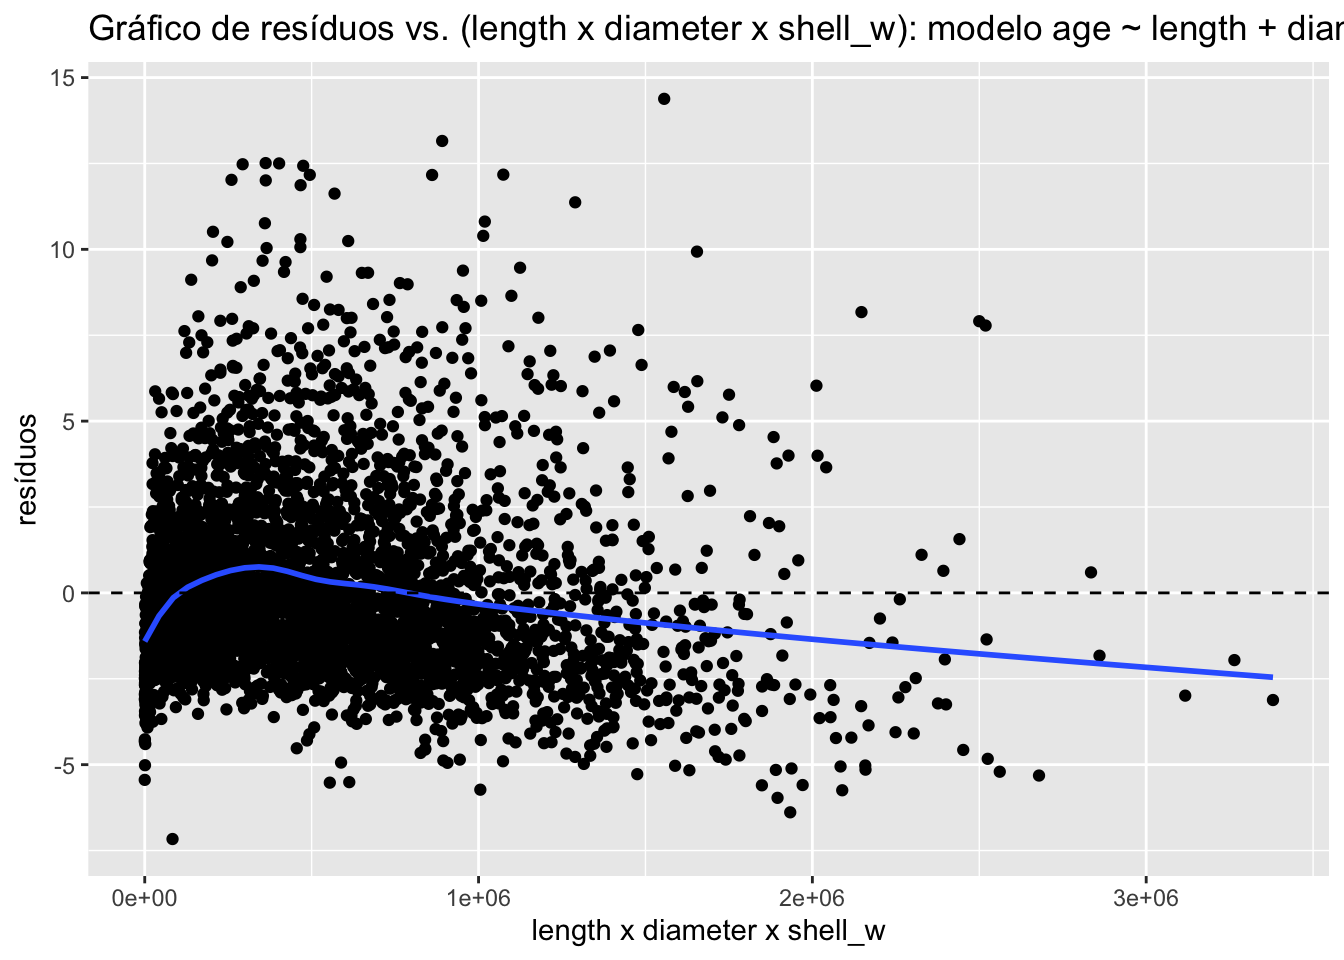
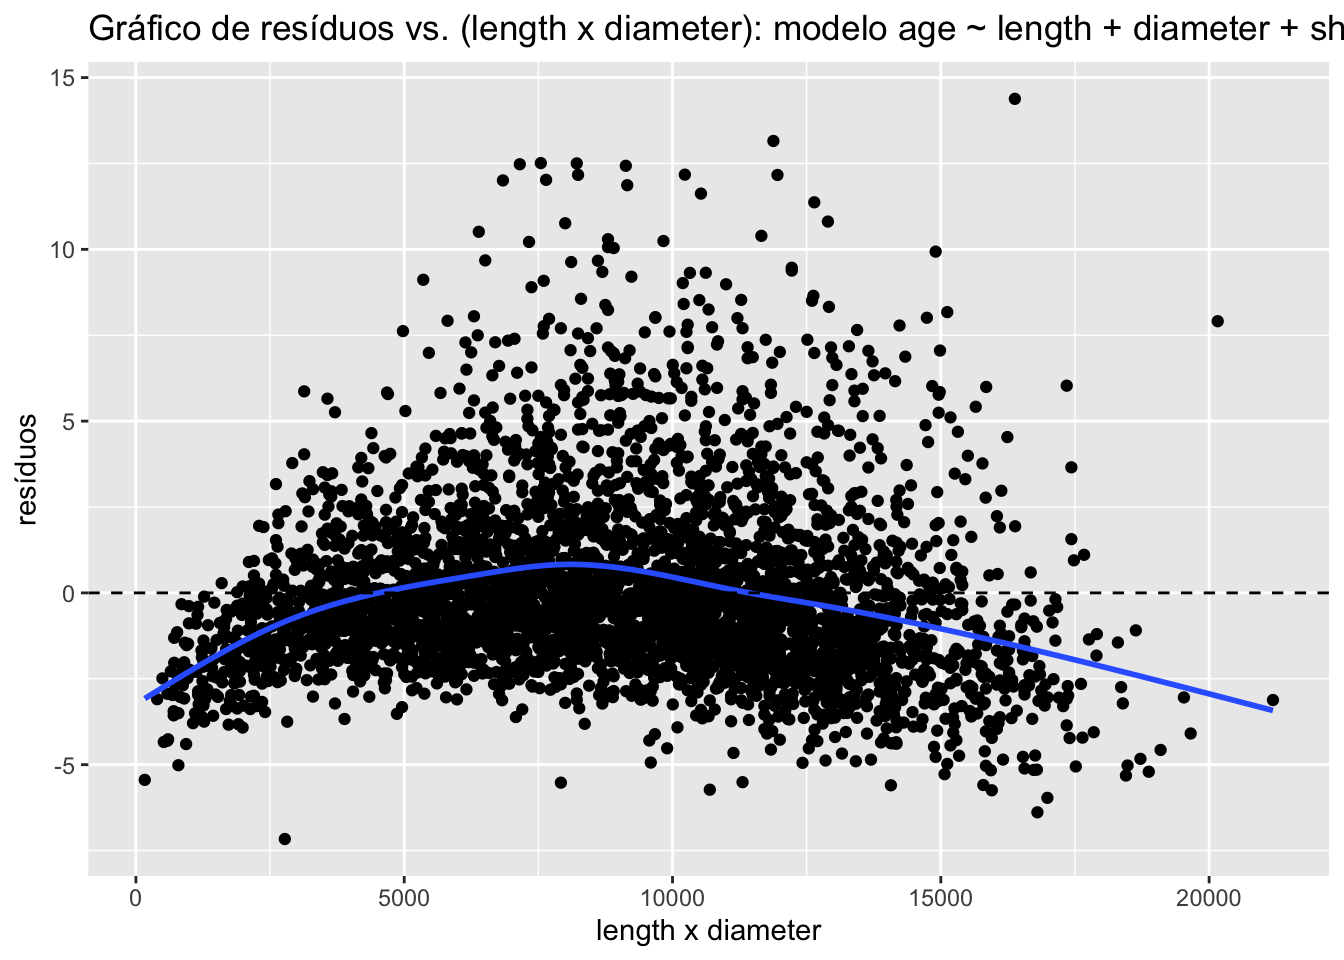
Fourth practice changes, once again

diff --git a/GED16_AULA04_Pratica/GED16_AULA04_Pratica.html b/GED16_AULA04_Pratica/GED16_AULA04_Pratica.html
@@ -2579,13 +2579,27 @@ F-statistic: 886.4 on 3 and 4171 DF,  p-value: &lt; 2.2e-16</code></pre>
 <span id="cb202-19"><a href="#cb202-19" aria-hidden="true" tabindex="-1"></a>  <span class="fu">geom_hline</span>(<span class="at">yintercept =</span> <span class="dv">0</span>, <span class="at">linetype =</span> <span class="st">"dashed"</span>) <span class="sc">+</span></span>
 <span id="cb202-20"><a href="#cb202-20" aria-hidden="true" tabindex="-1"></a>  <span class="fu">ggtitle</span>(<span class="st">"Gráfico de resíduos vs. shell_w: modelo age ~ length + diameter + shell_w"</span>) <span class="sc">+</span></span>
 <span id="cb202-21"><a href="#cb202-21" aria-hidden="true" tabindex="-1"></a>  <span class="fu">labs</span>(<span class="at">y =</span> <span class="st">"resíduos"</span>, <span class="at">x =</span> <span class="st">"variável explicativa (shell_w)"</span>)</span>
-<span id="cb202-22"><a href="#cb202-22" aria-hidden="true" tabindex="-1"></a><span class="co"># Grafico: resid x POP*RPC</span></span>
-<span id="cb202-23"><a href="#cb202-23" aria-hidden="true" tabindex="-1"></a><span class="fu">ggplot</span>(rlm_partone_data, <span class="fu">aes</span>(<span class="at">x =</span> length<span class="sc">*</span>diameter<span class="sc">*</span>shell_w, <span class="at">y =</span> resid)) <span class="sc">+</span></span>
+<span id="cb202-22"><a href="#cb202-22" aria-hidden="true" tabindex="-1"></a><span class="co"># Grafico: resid x length * diameter</span></span>
+<span id="cb202-23"><a href="#cb202-23" aria-hidden="true" tabindex="-1"></a><span class="fu">ggplot</span>(rlm_partone_data, <span class="fu">aes</span>(<span class="at">x =</span> length<span class="sc">*</span>diameter, <span class="at">y =</span> resid)) <span class="sc">+</span></span>
 <span id="cb202-24"><a href="#cb202-24" aria-hidden="true" tabindex="-1"></a>  <span class="fu">geom_point</span>() <span class="sc">+</span></span>
 <span id="cb202-25"><a href="#cb202-25" aria-hidden="true" tabindex="-1"></a>  <span class="fu">geom_smooth</span>(<span class="at">se=</span><span class="cn">FALSE</span>) <span class="sc">+</span></span>
 <span id="cb202-26"><a href="#cb202-26" aria-hidden="true" tabindex="-1"></a>  <span class="fu">geom_hline</span>(<span class="at">yintercept =</span> <span class="dv">0</span>, <span class="at">linetype =</span> <span class="st">"dashed"</span>) <span class="sc">+</span></span>
-<span id="cb202-27"><a href="#cb202-27" aria-hidden="true" tabindex="-1"></a>  <span class="fu">ggtitle</span>(<span class="st">"Gráfico de resíduos vs. (length x diameter x shell_w): modelo age ~ length + diameter + shell_w"</span>) <span class="sc">+</span></span>
-<span id="cb202-28"><a href="#cb202-28" aria-hidden="true" tabindex="-1"></a>  <span class="fu">labs</span>(<span class="at">y =</span> <span class="st">"resíduos"</span>, <span class="at">x =</span> <span class="st">"length x diameter x shell_w"</span>)</span></code><button title="Copiar para a área de transferência" class="code-copy-button"><i class="bi"></i></button></pre></div>
+<span id="cb202-27"><a href="#cb202-27" aria-hidden="true" tabindex="-1"></a>  <span class="fu">ggtitle</span>(<span class="st">"Gráfico de resíduos vs. (length x diameter): modelo age ~ length + diameter + shell_w"</span>) <span class="sc">+</span></span>
+<span id="cb202-28"><a href="#cb202-28" aria-hidden="true" tabindex="-1"></a>  <span class="fu">labs</span>(<span class="at">y =</span> <span class="st">"resíduos"</span>, <span class="at">x =</span> <span class="st">"length x diameter"</span>)</span>
+<span id="cb202-29"><a href="#cb202-29" aria-hidden="true" tabindex="-1"></a><span class="co"># Grafico: resid x length * shell_w</span></span>
+<span id="cb202-30"><a href="#cb202-30" aria-hidden="true" tabindex="-1"></a><span class="fu">ggplot</span>(rlm_partone_data, <span class="fu">aes</span>(<span class="at">x =</span> length<span class="sc">*</span>shell_w, <span class="at">y =</span> resid)) <span class="sc">+</span></span>
+<span id="cb202-31"><a href="#cb202-31" aria-hidden="true" tabindex="-1"></a>  <span class="fu">geom_point</span>() <span class="sc">+</span></span>
+<span id="cb202-32"><a href="#cb202-32" aria-hidden="true" tabindex="-1"></a>  <span class="fu">geom_smooth</span>(<span class="at">se=</span><span class="cn">FALSE</span>) <span class="sc">+</span></span>
+<span id="cb202-33"><a href="#cb202-33" aria-hidden="true" tabindex="-1"></a>  <span class="fu">geom_hline</span>(<span class="at">yintercept =</span> <span class="dv">0</span>, <span class="at">linetype =</span> <span class="st">"dashed"</span>) <span class="sc">+</span></span>
+<span id="cb202-34"><a href="#cb202-34" aria-hidden="true" tabindex="-1"></a>  <span class="fu">ggtitle</span>(<span class="st">"Gráfico de resíduos vs. (length x shell_w): modelo age ~ length + diameter + shell_w"</span>) <span class="sc">+</span></span>
+<span id="cb202-35"><a href="#cb202-35" aria-hidden="true" tabindex="-1"></a>  <span class="fu">labs</span>(<span class="at">y =</span> <span class="st">"resíduos"</span>, <span class="at">x =</span> <span class="st">"length x shell_w"</span>)</span>
+<span id="cb202-36"><a href="#cb202-36" aria-hidden="true" tabindex="-1"></a><span class="co"># Grafico: resid x diameter * shell_w</span></span>
+<span id="cb202-37"><a href="#cb202-37" aria-hidden="true" tabindex="-1"></a><span class="fu">ggplot</span>(rlm_partone_data, <span class="fu">aes</span>(<span class="at">x =</span> diameter<span class="sc">*</span>shell_w, <span class="at">y =</span> resid)) <span class="sc">+</span></span>
+<span id="cb202-38"><a href="#cb202-38" aria-hidden="true" tabindex="-1"></a>  <span class="fu">geom_point</span>() <span class="sc">+</span></span>
+<span id="cb202-39"><a href="#cb202-39" aria-hidden="true" tabindex="-1"></a>  <span class="fu">geom_smooth</span>(<span class="at">se=</span><span class="cn">FALSE</span>) <span class="sc">+</span></span>
+<span id="cb202-40"><a href="#cb202-40" aria-hidden="true" tabindex="-1"></a>  <span class="fu">geom_hline</span>(<span class="at">yintercept =</span> <span class="dv">0</span>, <span class="at">linetype =</span> <span class="st">"dashed"</span>) <span class="sc">+</span></span>
+<span id="cb202-41"><a href="#cb202-41" aria-hidden="true" tabindex="-1"></a>  <span class="fu">ggtitle</span>(<span class="st">"Gráfico de resíduos vs. (diameter x shell_w): modelo age ~ length + diameter + shell_w"</span>) <span class="sc">+</span></span>
+<span id="cb202-42"><a href="#cb202-42" aria-hidden="true" tabindex="-1"></a>  <span class="fu">labs</span>(<span class="at">y =</span> <span class="st">"resíduos"</span>, <span class="at">x =</span> <span class="st">"diameter x shell_w"</span>)</span></code><button title="Copiar para a área de transferência" class="code-copy-button"><i class="bi"></i></button></pre></div>
 <div class="cell quarto-layout-panel">
 <div class="quarto-layout-row quarto-layout-valign-top">
 <div class="cell-output-display quarto-layout-cell" style="flex-basis: 50.0%;justify-content: center;">
@@ -2601,6 +2615,14 @@ F-statistic: 886.4 on 3 and 4171 DF,  p-value: &lt; 2.2e-16</code></pre>
 </div>
 <div class="cell-output-display quarto-layout-cell" style="flex-basis: 50.0%;justify-content: center;">
 <p><img src="GED16_AULA04_Pratica_files/figure-html/unnamed-chunk-122-4.png" class="img-fluid" width="672"></p>
+</div>
+</div>
+<div class="quarto-layout-row quarto-layout-valign-top">
+<div class="cell-output-display quarto-layout-cell" style="flex-basis: 50.0%;justify-content: center;">
+<p><img src="GED16_AULA04_Pratica_files/figure-html/unnamed-chunk-122-5.png" class="img-fluid" width="672"></p>
+</div>
+<div class="cell-output-display quarto-layout-cell" style="flex-basis: 50.0%;justify-content: center;">
+<p><img src="GED16_AULA04_Pratica_files/figure-html/unnamed-chunk-122-6.png" class="img-fluid" width="672"></p>
 </div>
 </div>
 </div>
@@ -2631,13 +2653,27 @@ F-statistic: 886.4 on 3 and 4171 DF,  p-value: &lt; 2.2e-16</code></pre>
 <span id="cb203-19"><a href="#cb203-19" aria-hidden="true" tabindex="-1"></a>  <span class="fu">geom_hline</span>(<span class="at">yintercept =</span> <span class="dv">0</span>, <span class="at">linetype =</span> <span class="st">"dashed"</span>) <span class="sc">+</span></span>
 <span id="cb203-20"><a href="#cb203-20" aria-hidden="true" tabindex="-1"></a>  <span class="fu">ggtitle</span>(<span class="st">"Gráfico de resíduos vs. shell_w: modelo age ~ height + diameter + shell_w"</span>) <span class="sc">+</span></span>
 <span id="cb203-21"><a href="#cb203-21" aria-hidden="true" tabindex="-1"></a>  <span class="fu">labs</span>(<span class="at">y =</span> <span class="st">"resíduos"</span>, <span class="at">x =</span> <span class="st">"variável explicativa (shell_w)"</span>)</span>
-<span id="cb203-22"><a href="#cb203-22" aria-hidden="true" tabindex="-1"></a><span class="co"># Grafico: resid x height*diameter*shell_w</span></span>
-<span id="cb203-23"><a href="#cb203-23" aria-hidden="true" tabindex="-1"></a><span class="fu">ggplot</span>(rlm_parttwo_data, <span class="fu">aes</span>(<span class="at">x =</span> height<span class="sc">*</span>diameter<span class="sc">*</span>shell_w, <span class="at">y =</span> resid)) <span class="sc">+</span></span>
+<span id="cb203-22"><a href="#cb203-22" aria-hidden="true" tabindex="-1"></a><span class="co"># Grafico: resid x height * diameter</span></span>
+<span id="cb203-23"><a href="#cb203-23" aria-hidden="true" tabindex="-1"></a><span class="fu">ggplot</span>(rlm_partone_data, <span class="fu">aes</span>(<span class="at">x =</span> height<span class="sc">*</span>diameter, <span class="at">y =</span> resid)) <span class="sc">+</span></span>
 <span id="cb203-24"><a href="#cb203-24" aria-hidden="true" tabindex="-1"></a>  <span class="fu">geom_point</span>() <span class="sc">+</span></span>
 <span id="cb203-25"><a href="#cb203-25" aria-hidden="true" tabindex="-1"></a>  <span class="fu">geom_smooth</span>(<span class="at">se=</span><span class="cn">FALSE</span>) <span class="sc">+</span></span>
 <span id="cb203-26"><a href="#cb203-26" aria-hidden="true" tabindex="-1"></a>  <span class="fu">geom_hline</span>(<span class="at">yintercept =</span> <span class="dv">0</span>, <span class="at">linetype =</span> <span class="st">"dashed"</span>) <span class="sc">+</span></span>
-<span id="cb203-27"><a href="#cb203-27" aria-hidden="true" tabindex="-1"></a>  <span class="fu">ggtitle</span>(<span class="st">"Gráfico de resíduos vs. (height x diameter x shell_w): modelo age ~ height + diameter + shell_w"</span>) <span class="sc">+</span></span>
-<span id="cb203-28"><a href="#cb203-28" aria-hidden="true" tabindex="-1"></a>  <span class="fu">labs</span>(<span class="at">y =</span> <span class="st">"resíduos"</span>, <span class="at">x =</span> <span class="st">"height x diameter x shell_w"</span>)</span></code><button title="Copiar para a área de transferência" class="code-copy-button"><i class="bi"></i></button></pre></div>
+<span id="cb203-27"><a href="#cb203-27" aria-hidden="true" tabindex="-1"></a>  <span class="fu">ggtitle</span>(<span class="st">"Gráfico de resíduos vs. (height x diameter): modelo age ~ height + diameter + shell_w"</span>) <span class="sc">+</span></span>
+<span id="cb203-28"><a href="#cb203-28" aria-hidden="true" tabindex="-1"></a>  <span class="fu">labs</span>(<span class="at">y =</span> <span class="st">"resíduos"</span>, <span class="at">x =</span> <span class="st">"height x diameter"</span>)</span>
+<span id="cb203-29"><a href="#cb203-29" aria-hidden="true" tabindex="-1"></a><span class="co"># Grafico: resid x height * shell_w</span></span>
+<span id="cb203-30"><a href="#cb203-30" aria-hidden="true" tabindex="-1"></a><span class="fu">ggplot</span>(rlm_partone_data, <span class="fu">aes</span>(<span class="at">x =</span> height<span class="sc">*</span>shell_w, <span class="at">y =</span> resid)) <span class="sc">+</span></span>
+<span id="cb203-31"><a href="#cb203-31" aria-hidden="true" tabindex="-1"></a>  <span class="fu">geom_point</span>() <span class="sc">+</span></span>
+<span id="cb203-32"><a href="#cb203-32" aria-hidden="true" tabindex="-1"></a>  <span class="fu">geom_smooth</span>(<span class="at">se=</span><span class="cn">FALSE</span>) <span class="sc">+</span></span>
+<span id="cb203-33"><a href="#cb203-33" aria-hidden="true" tabindex="-1"></a>  <span class="fu">geom_hline</span>(<span class="at">yintercept =</span> <span class="dv">0</span>, <span class="at">linetype =</span> <span class="st">"dashed"</span>) <span class="sc">+</span></span>
+<span id="cb203-34"><a href="#cb203-34" aria-hidden="true" tabindex="-1"></a>  <span class="fu">ggtitle</span>(<span class="st">"Gráfico de resíduos vs. (height x shell_w): modelo age ~ height + diameter + shell_w"</span>) <span class="sc">+</span></span>
+<span id="cb203-35"><a href="#cb203-35" aria-hidden="true" tabindex="-1"></a>  <span class="fu">labs</span>(<span class="at">y =</span> <span class="st">"resíduos"</span>, <span class="at">x =</span> <span class="st">"height x shell_w"</span>)</span>
+<span id="cb203-36"><a href="#cb203-36" aria-hidden="true" tabindex="-1"></a><span class="co"># Grafico: resid x diameter * shell_w</span></span>
+<span id="cb203-37"><a href="#cb203-37" aria-hidden="true" tabindex="-1"></a><span class="fu">ggplot</span>(rlm_partone_data, <span class="fu">aes</span>(<span class="at">x =</span> diameter<span class="sc">*</span>shell_w, <span class="at">y =</span> resid)) <span class="sc">+</span></span>
+<span id="cb203-38"><a href="#cb203-38" aria-hidden="true" tabindex="-1"></a>  <span class="fu">geom_point</span>() <span class="sc">+</span></span>
+<span id="cb203-39"><a href="#cb203-39" aria-hidden="true" tabindex="-1"></a>  <span class="fu">geom_smooth</span>(<span class="at">se=</span><span class="cn">FALSE</span>) <span class="sc">+</span></span>
+<span id="cb203-40"><a href="#cb203-40" aria-hidden="true" tabindex="-1"></a>  <span class="fu">geom_hline</span>(<span class="at">yintercept =</span> <span class="dv">0</span>, <span class="at">linetype =</span> <span class="st">"dashed"</span>) <span class="sc">+</span></span>
+<span id="cb203-41"><a href="#cb203-41" aria-hidden="true" tabindex="-1"></a>  <span class="fu">ggtitle</span>(<span class="st">"Gráfico de resíduos vs. (diameter x shell_w): modelo age ~ length + diameter + shell_w"</span>) <span class="sc">+</span></span>
+<span id="cb203-42"><a href="#cb203-42" aria-hidden="true" tabindex="-1"></a>  <span class="fu">labs</span>(<span class="at">y =</span> <span class="st">"resíduos"</span>, <span class="at">x =</span> <span class="st">"diameter x shell_w"</span>)</span></code><button title="Copiar para a área de transferência" class="code-copy-button"><i class="bi"></i></button></pre></div>
 <div class="cell quarto-layout-panel">
 <div class="quarto-layout-row quarto-layout-valign-top">
 <div class="cell-output-display quarto-layout-cell" style="flex-basis: 50.0%;justify-content: center;">
@@ -2655,9 +2691,17 @@ F-statistic: 886.4 on 3 and 4171 DF,  p-value: &lt; 2.2e-16</code></pre>
 <p><img src="GED16_AULA04_Pratica_files/figure-html/unnamed-chunk-123-4.png" class="img-fluid" width="672"></p>
 </div>
 </div>
+<div class="quarto-layout-row quarto-layout-valign-top">
+<div class="cell-output-display quarto-layout-cell" style="flex-basis: 50.0%;justify-content: center;">
+<p><img src="GED16_AULA04_Pratica_files/figure-html/unnamed-chunk-123-5.png" class="img-fluid" width="672"></p>
+</div>
+<div class="cell-output-display quarto-layout-cell" style="flex-basis: 50.0%;justify-content: center;">
+<p><img src="GED16_AULA04_Pratica_files/figure-html/unnamed-chunk-123-6.png" class="img-fluid" width="672"></p>
 </div>
 </div>
-<p>Novamente, assim como no primeiro modelo, constata-se, através da análise da curva suavizada referente a massa de pontos, que há fortes indícios de uma relação não linear entre a variável de resposta e as variáveis explicativas. Destaca-se também a presença de um <em>outlier</em> extremo no gráfico de resíduos referente a variável <code>height</code>, que distorce consideravelmente o gráfico final.</p>
+</div>
+</div>
+<p>Novamente, assim como no primeiro modelo, constata-se, através da análise da curva suavizada referente a massa de pontos, que há fortes indícios de uma relação não linear entre a variável de resposta e as variáveis explicativas. Destaca-se também a presença de dois pontos de registros extremos no gráfico de resíduos referente a variável <code>height</code>, que aparecem novamente, embora de maneira menos exagerada, no gráfico de resíduos <code>height * diameter</code>.</p>
 </section>
 </section>
 <section id="gráfico-de-quantis" class="level3">
@@ -2708,7 +2752,7 @@ F-statistic: 886.4 on 3 and 4171 DF,  p-value: &lt; 2.2e-16</code></pre>
 </section>
 <section id="conclusão-1" class="level2">
 <h2 class="anchored" data-anchor-id="conclusão-1">Conclusão</h2>
-<p>Nota-se que ambos os modelos construídos não parecem representar muito bem a massa de dados utilizada. Isso se torna especiamente evidente pela análise das correlações apresentadas anteriormente, e pelo desvio da normalidade nos quantis finais dos resíduos.</p>
+<p>Nota-se que ambos os modelos construídos não parecem representar muito bem a massa de dados utilizada. Isso se torna especiamente evidente pela análise das correlações apresentadas anteriormente, pelos valores de R2, que mal chegam a 40%.</p>
 <p>Assim, conclui-se que não há um modelo dentre os dois apresentados que represente melhor a massa de dados, dado que ambos são incapazes de tal.</p>
 </section>
 <section id="divisões-por-sex" class="level2">
